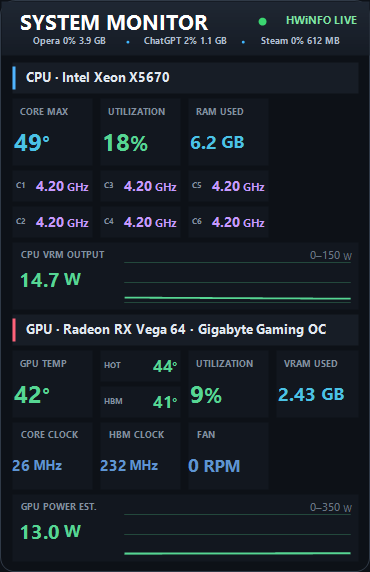
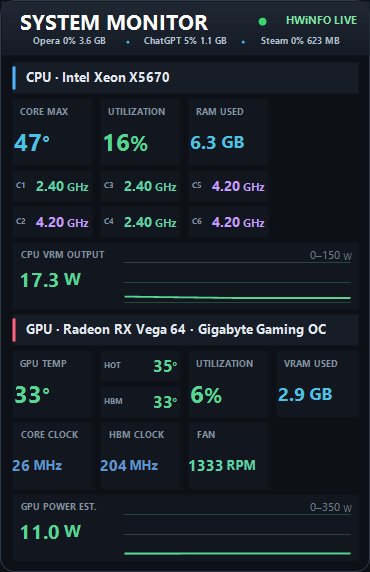
Release SystemMonitorWidget v2.2

diff --git a/src/DashboardEditor.cs b/src/DashboardEditor.cs
@@ -8,26 +8,56 @@ namespace VegaDesktopWidget
 {
     internal sealed class SensorChoice
     {
-        public string Key, Label, SensorName, Unit, Display;
+        public string Key, Label, SensorName, Unit, Display, SearchText;
         public SensorReading Reading;
         public override string ToString() { return Display; }
+
+        public bool Matches(string query)
+        {
+            if (String.IsNullOrWhiteSpace(query)) return true;
+            string[] terms = query.ToLowerInvariant().Split(new char[] { ' ', '\t', '\r', '\n' }, StringSplitOptions.RemoveEmptyEntries);
+            string searchable = SearchText ?? "";
+            foreach (string term in terms) if (searchable.IndexOf(term, StringComparison.Ordinal) < 0) return false;
+            return true;
+        }
+
+        private static string TypeAliases(SensorReading reading)
+        {
+            string unit = (reading.Unit ?? "").Trim().ToLowerInvariant();
+            switch (reading.Type)
+            {
+                case 1: return "temperature temp thermal celsius degrees";
+                case 2: return "voltage volt volts";
+                case 3: return "fan rpm speed tachometer rotation";
+                case 4: return "current amp amps ampere";
+                case 5: return "power watt watts consumption";
+                case 6: return "clock frequency mhz ghz";
+                case 7: return "usage utilization load percent";
+            }
+            if (unit == "rpm") return "fan rpm speed tachometer rotation";
+            if (unit == "w") return "power watt watts consumption";
+            if (unit == "mhz" || unit == "ghz") return "clock frequency mhz ghz";
+            if (unit == "%") return "usage utilization load percent";
+            return "other sensor reading";
+        }
 
         public static List<SensorChoice> Build(List<SensorReading> readings)
         {
             List<SensorChoice> result = new List<SensorChoice>();
-            result.Add(new SensorChoice { Key = "__RAM_USED__", Label = "RAM used", SensorName = "System memory", Unit = "GB", Display = "RAM used  —  System memory  [GB]" });
+            result.Add(new SensorChoice { Key = "__RAM_USED__", Label = "RAM used", SensorName = "System memory", Unit = "GB", Display = "RAM used  —  System memory  [GB]", SearchText = "ram used system memory gb utilization usage" });
             foreach (SensorReading reading in readings)
             {
+                string display = reading.Label + "  —  " + reading.SensorName + (String.IsNullOrWhiteSpace(reading.Unit) ? "" : "  [" + reading.Unit.Trim() + "]");
+                string search = String.Join(" ", new string[] { reading.Label, reading.OriginalLabel, reading.SensorName, reading.Unit, TypeAliases(reading) }).ToLowerInvariant();
                 result.Add(new SensorChoice {
                     Key = reading.Key, Label = reading.OriginalLabel, SensorName = reading.SensorName, Unit = reading.Unit, Reading = reading,
-                    Display = reading.Label + "  —  " + reading.SensorName + (String.IsNullOrWhiteSpace(reading.Unit) ? "" : "  [" + reading.Unit.Trim() + "]")
+                    Display = display, SearchText = search
                 });
             }
             result.Sort(delegate(SensorChoice a, SensorChoice b) { if (a.Key == "__RAM_USED__") return -1; if (b.Key == "__RAM_USED__") return 1; return String.Compare(a.Display, b.Display, StringComparison.CurrentCultureIgnoreCase); });
             return result;
         }
     }
-
     internal sealed class DashboardCanvas : Control
     {
         private const int MarginSize = 8, ColumnGap = 7, RowGap = 5, SlotHeight = 31;
@@ -169,24 +199,40 @@ namespace VegaDesktopWidget
 
     internal sealed class AddComponentDialog : Form
     {
-        private readonly ComboBox sensor = new ComboBox(), type = new ComboBox();
+        private readonly TextBox search = new TextBox();
+        private readonly ListBox sensor = new ListBox();
+        private readonly ComboBox type = new ComboBox();
+        private readonly Label resultCount = new Label();
+        private readonly Button add = new Button();
         private readonly List<SensorChoice> choices;
         public SensorChoice SelectedSensor { get { return sensor.SelectedItem as SensorChoice; } }
         public DashboardBoxType SelectedType { get { return (DashboardBoxType)Math.Max(0, type.SelectedIndex); } }
 
         public AddComponentDialog(List<SensorChoice> available)
         {
-            choices = available; Text = "Add dashboard component"; StartPosition = FormStartPosition.CenterParent; ClientSize = new Size(680, 190); FormBorderStyle = FormBorderStyle.FixedDialog; MaximizeBox = false; MinimizeBox = false; Font = new Font("Segoe UI", 9f);
-            TableLayoutPanel table = new TableLayoutPanel(); table.Dock = DockStyle.Fill; table.Padding = new Padding(18); table.ColumnCount = 2; table.RowCount = 3; table.ColumnStyles.Add(new ColumnStyle(SizeType.Absolute, 130)); table.ColumnStyles.Add(new ColumnStyle(SizeType.Percent, 100));
-            table.Controls.Add(LabelFor("Sensor"), 0, 0); sensor.Dock = DockStyle.Fill; sensor.DropDownStyle = ComboBoxStyle.DropDown; sensor.AutoCompleteMode = AutoCompleteMode.SuggestAppend; sensor.AutoCompleteSource = AutoCompleteSource.ListItems; sensor.DropDownWidth = 900; foreach (SensorChoice choice in choices) sensor.Items.Add(choice); if (sensor.Items.Count > 0) sensor.SelectedIndex = 0; table.Controls.Add(sensor, 1, 0);
-            table.Controls.Add(LabelFor("Box type"), 0, 1); type.Dock = DockStyle.Left; type.Width = 240; type.DropDownStyle = ComboBoxStyle.DropDownList; type.Items.AddRange(new object[] { "Big metric", "Horizontal spec (half-cell)", "Vertical spec", "Graph", "Section heading" }); type.SelectedIndex = 0; table.Controls.Add(type, 1, 1);
-            FlowLayoutPanel buttons = new FlowLayoutPanel(); buttons.FlowDirection = FlowDirection.RightToLeft; buttons.Dock = DockStyle.Fill; Button cancel = new Button(); cancel.Text = "Cancel"; cancel.DialogResult = DialogResult.Cancel; Button add = new Button(); add.Text = "Add"; add.DialogResult = DialogResult.OK; buttons.Controls.Add(cancel); buttons.Controls.Add(add); table.Controls.Add(buttons, 0, 2); table.SetColumnSpan(buttons, 2); Controls.Add(table); AcceptButton = add; CancelButton = cancel;
-            type.SelectedIndexChanged += delegate { sensor.Enabled = SelectedType != DashboardBoxType.Section; };
+            choices = available ?? new List<SensorChoice>(); Text = "Add dashboard component"; StartPosition = FormStartPosition.CenterParent; ClientSize = new Size(820, 510); MinimumSize = new Size(720, 430); Font = new Font("Segoe UI", 9f);
+            TableLayoutPanel table = new TableLayoutPanel(); table.Dock = DockStyle.Fill; table.Padding = new Padding(18); table.ColumnCount = 2; table.RowCount = 5; table.ColumnStyles.Add(new ColumnStyle(SizeType.Absolute, 110)); table.ColumnStyles.Add(new ColumnStyle(SizeType.Percent, 100));
+            table.RowStyles.Add(new RowStyle(SizeType.Absolute, 36)); table.RowStyles.Add(new RowStyle(SizeType.Percent, 100)); table.RowStyles.Add(new RowStyle(SizeType.Absolute, 25)); table.RowStyles.Add(new RowStyle(SizeType.Absolute, 42)); table.RowStyles.Add(new RowStyle(SizeType.Absolute, 45));
+            table.Controls.Add(LabelFor("Find sensor"), 0, 0); search.Dock = DockStyle.Fill; search.Margin = new Padding(3, 4, 3, 6); table.Controls.Add(search, 1, 0);
+            table.Controls.Add(LabelFor("Sensors"), 0, 1); sensor.Dock = DockStyle.Fill; sensor.IntegralHeight = false; sensor.HorizontalScrollbar = true; table.Controls.Add(sensor, 1, 1);
+            resultCount.Dock = DockStyle.Fill; resultCount.ForeColor = Color.DimGray; resultCount.TextAlign = ContentAlignment.MiddleLeft; table.Controls.Add(resultCount, 1, 2);
+            table.Controls.Add(LabelFor("Box type"), 0, 3); type.Dock = DockStyle.Left; type.Width = 260; type.DropDownStyle = ComboBoxStyle.DropDownList; type.Items.AddRange(new object[] { "Big metric", "Horizontal spec (half-cell)", "Vertical spec", "Graph", "Section heading" }); type.SelectedIndex = 0; table.Controls.Add(type, 1, 3);
+            FlowLayoutPanel buttons = new FlowLayoutPanel(); buttons.FlowDirection = FlowDirection.RightToLeft; buttons.Dock = DockStyle.Fill; Button cancel = new Button(); cancel.Text = "Cancel"; cancel.DialogResult = DialogResult.Cancel; cancel.Size = new Size(90, 30); add.Text = "Add"; add.DialogResult = DialogResult.OK; add.Size = new Size(90, 30); buttons.Controls.Add(cancel); buttons.Controls.Add(add); table.Controls.Add(buttons, 0, 4); table.SetColumnSpan(buttons, 2); Controls.Add(table); AcceptButton = add; CancelButton = cancel;
+            search.TextChanged += delegate { ApplyFilter(); }; sensor.SelectedIndexChanged += delegate { UpdateAddState(); }; sensor.DoubleClick += delegate { if (add.Enabled) { DialogResult = DialogResult.OK; Close(); } }; type.SelectedIndexChanged += delegate { bool needsSensor = SelectedType != DashboardBoxType.Section; search.Enabled = sensor.Enabled = needsSensor; UpdateAddState(); };
+            ApplyFilter(); search.Select();
         }
 
+        private void ApplyFilter()
+        {
+            SensorChoice selected = sensor.SelectedItem as SensorChoice; sensor.BeginUpdate(); sensor.Items.Clear();
+            foreach (SensorChoice choice in choices) if (choice.Matches(search.Text)) sensor.Items.Add(choice);
+            sensor.EndUpdate(); if (selected != null) sensor.SelectedItem = selected; if (sensor.SelectedIndex < 0 && sensor.Items.Count > 0) sensor.SelectedIndex = 0;
+            resultCount.Text = sensor.Items.Count + " of " + choices.Count + " sensors"; UpdateAddState();
+        }
+
+        private void UpdateAddState() { add.Enabled = SelectedType == DashboardBoxType.Section || sensor.SelectedItem != null; }
         private static Label LabelFor(string text) { Label label = new Label(); label.Text = text; label.Dock = DockStyle.Fill; label.TextAlign = ContentAlignment.MiddleLeft; return label; }
     }
-
     internal sealed class DashboardEditorControl : UserControl
     {
         private readonly WidgetConfig config; private readonly List<SensorReading> readings; private readonly List<SensorChoice> choices;

diff --git a/src/WidgetFormV2.cs b/src/WidgetFormV2.cs
@@ -23,9 +23,9 @@ namespace VegaDesktopWidget
         private readonly WidgetComponents components = new WidgetComponents();
         private double ramUsed, ramTotal; private bool ramAvailable;
         private string status = "Starting";
-        private bool dragging; private Point dragStart; private ContextMenuStrip menu; private ToolStripMenuItem topmostItem, scaleItem, gridItem;
+        private bool dragging; private Point dragStart; private ContextMenuStrip menu; private ToolStripMenuItem topmostItem, scaleItem, gridItem, processItem;
 
-        private float UiScale { get { if (config.UiScaleMode == 67) return 2f / 3f; if (config.UiScaleMode == 50) return 0.5f; if (config.UiScaleMode == 33) return 1f / 3f; if (config.UiScaleMode == 25) return 0.25f; return 1f; } }
+        private float UiScale { get { if (config.UiScaleMode == 75) return 0.75f; if (config.UiScaleMode == 67) return 2f / 3f; if (config.UiScaleMode == 50) return 0.5f; if (config.UiScaleMode == 33) return 1f / 3f; if (config.UiScaleMode == 25) return 0.25f; return 1f; } }
         private int CanvasWidth { get { return config.Width; } }
         private int LogicalHeight { get { int rows = Math.Max(4, config.ActiveDashboardRows); return DashboardTop + rows * SlotHeight + Math.Max(0, rows - 1) * RowGap + BottomPadding; } }
 
@@ -47,7 +47,8 @@ namespace VegaDesktopWidget
             topmostItem = new ToolStripMenuItem("Always on top"); topmostItem.Checked = config.AlwaysOnTop;
             topmostItem.Click += delegate { config.AlwaysOnTop = !config.AlwaysOnTop; TopMost = config.AlwaysOnTop; topmostItem.Checked = config.AlwaysOnTop; config.Save(); };
             menu.Items.Add(topmostItem); gridItem = new ToolStripMenuItem("Grid layout"); AddGridMenuItem("3 columns", 3); AddGridMenuItem("4 columns", 4); UpdateGridMenu(); menu.Items.Add(gridItem);
-            scaleItem = new ToolStripMenuItem("UI scale"); AddScaleMenuItem("100% (1/1)", 100); AddScaleMenuItem("67% (2/3)", 67); AddScaleMenuItem("50% (1/2)", 50); AddScaleMenuItem("33% (1/3)", 33); AddScaleMenuItem("25% (1/4)", 25); UpdateScaleMenu(); menu.Items.Add(scaleItem);
+            scaleItem = new ToolStripMenuItem("UI scale"); AddScaleMenuItem("100% (1/1)", 100); AddScaleMenuItem("75% (3/4)", 75); AddScaleMenuItem("67% (2/3)", 67); AddScaleMenuItem("50% (1/2)", 50); AddScaleMenuItem("33% (1/3)", 33); AddScaleMenuItem("25% (1/4)", 25); UpdateScaleMenu(); menu.Items.Add(scaleItem);
+            processItem = new ToolStripMenuItem("Header processes"); AddProcessMenuItem("No", 0); AddProcessMenuItem("Top CPU", 1); AddProcessMenuItem("Top RAM", 2); UpdateProcessMenu(); menu.Items.Add(processItem);
             menu.Items.Add("Start HWiNFO", null, delegate { LaunchHWiNFO(); }); menu.Items.Add("Reset position", null, delegate { Location = new Point(60, 60); });
             menu.Items.Add(new ToolStripSeparator()); menu.Items.Add("Exit", null, delegate { Close(); }); ContextMenuStrip = menu;
         }
@@ -56,13 +57,17 @@ namespace VegaDesktopWidget
         private void SetGridColumns(int columns) { config.GridColumns = columns == 3 ? 3 : 4; ApplyWidgetSize(); Location = ClampLocation(Location); UpdateGridMenu(); config.Save(); RefreshSensors(); }
         private void UpdateGridMenu() { if (gridItem == null) return; foreach (ToolStripItem raw in gridItem.DropDownItems) { ToolStripMenuItem item = raw as ToolStripMenuItem; if (item != null) item.Checked = (int)item.Tag == config.GridColumns; } }
         private void AddScaleMenuItem(string text, int mode) { ToolStripMenuItem item = new ToolStripMenuItem(text); item.Tag = mode; item.Click += delegate { SetUiScale(mode); }; scaleItem.DropDownItems.Add(item); }
-        private void SetUiScale(int mode) { config.UiScaleMode = mode == 67 || mode == 50 || mode == 33 || mode == 25 ? mode : 100; ApplyWidgetSize(); Location = ClampLocation(Location); UpdateScaleMenu(); config.Save(); Invalidate(); }
+        private void SetUiScale(int mode) { config.UiScaleMode = mode == 75 || mode == 67 || mode == 50 || mode == 33 || mode == 25 ? mode : 100; ApplyWidgetSize(); Location = ClampLocation(Location); UpdateScaleMenu(); config.Save(); Invalidate(); }
         private void UpdateScaleMenu() { if (scaleItem == null) return; foreach (ToolStripItem raw in scaleItem.DropDownItems) { ToolStripMenuItem item = raw as ToolStripMenuItem; if (item != null) item.Checked = (int)item.Tag == config.UiScaleMode; } }
+        private void AddProcessMenuItem(string text, int mode) { ToolStripMenuItem item = new ToolStripMenuItem(text); item.Tag = mode; item.Click += delegate { SetProcessMode(mode); }; processItem.DropDownItems.Add(item); }
+        private void SetProcessMode(int mode) { config.ProcessStripMode = Math.Max(0, Math.Min(2, mode)); topProcesses.Clear(); UpdateProcessMenu(); config.Save(); RefreshSensors(); }
+        private void UpdateProcessMenu() { if (processItem == null) return; foreach (ToolStripItem raw in processItem.DropDownItems) { ToolStripMenuItem item = raw as ToolStripMenuItem; if (item != null) item.Checked = (int)item.Tag == config.ProcessStripMode; } }
         private void ApplyWidgetSize() { float scale = UiScale; Size scaled = new Size(Math.Max(1, (int)Math.Round(config.Width * scale)), Math.Max(1, (int)Math.Round(LogicalHeight * scale))); MinimumSize = Size.Empty; MaximumSize = Size.Empty; Size = scaled; MinimumSize = scaled; MaximumSize = scaled; }
 
         private void RefreshSensors()
         {
-            readings = reader.Read(out status); ramAvailable = PhysicalMemory.Read(out ramUsed, out ramTotal); topProcesses = processSampler.SampleTopByMemory(3);
+            readings = reader.Read(out status); ramAvailable = PhysicalMemory.Read(out ramUsed, out ramTotal);
+            if (config.ProcessStripMode == 0) topProcesses.Clear(); else topProcesses = processSampler.SampleTop(3, config.ProcessStripMode == 1);
             foreach (DashboardItem item in config.ActiveDashboard)
             {
                 if (item.BoxType == DashboardBoxType.Section) continue;
@@ -91,7 +96,7 @@ namespace VegaDesktopWidget
         private double? ItemValue(DashboardItem item)
         {
             if (item.SensorKey == "__RAM_USED__") return ramAvailable ? (double?)ramUsed : null;
-            SensorReading reading = Resolve(item); return reading == null ? (double?)null : reading.Value;
+            SensorReading reading = Resolve(item); return reading == null || Double.IsNaN(reading.Value) || Double.IsInfinity(reading.Value) ? (double?)null : reading.Value;
         }
 
         protected override void OnPaint(PaintEventArgs e)
@@ -114,6 +119,7 @@ namespace VegaDesktopWidget
 
         private void DrawProcessStrip(Graphics g, RectangleF area)
         {
+            if (config.ProcessStripMode == 0) return;
             if (topProcesses.Count == 0)
             {
                 DrawText(g, "Collecting process activity", 7f, FontStyle.Regular, Color.FromArgb(135, 148, 164), area, StringAlignment.Near);
@@ -205,14 +211,14 @@ namespace VegaDesktopWidget
             return minimum.ToString("0.##", CultureInfo.InvariantCulture) + "–" + maximum.ToString("0.##", CultureInfo.InvariantCulture) + suffix;
         }
 
-        private static string Format(SensorReading reading) { return reading == null ? "—" : FormatValue(reading.Value, reading.Unit); }
+        private static string Format(SensorReading reading) { return reading == null || Double.IsNaN(reading.Value) || Double.IsInfinity(reading.Value) ? "—" : FormatValue(reading.Value, reading.Unit); }
         private static string FormatValue(double value, string unit)
         {
             string u = unit == null ? "" : unit.Trim();
             if (u.Equals("°C", StringComparison.OrdinalIgnoreCase)) return Math.Round(value).ToString("0") + "°";
             if (u == "%") return Math.Round(value).ToString("0") + "%";
             if (u.Equals("MHz", StringComparison.OrdinalIgnoreCase)) return value >= 1000 ? (value / 1000.0).ToString("0.00", CultureInfo.InvariantCulture) + " GHz" : Math.Round(value).ToString("0") + " MHz";
-            if (u.Equals("MB", StringComparison.OrdinalIgnoreCase) && value >= 1024) return (value / 1024.0).ToString("0.00", CultureInfo.InvariantCulture) + " GB";
+            if (u.Equals("MB", StringComparison.OrdinalIgnoreCase) && value >= 1024) return (value / 1024.0).ToString("0.0", CultureInfo.InvariantCulture) + " GB";
             if (u == "W") return value.ToString(value < 100 ? "0.0" : "0", CultureInfo.InvariantCulture) + " W";
             if (u == "RPM") return Math.Round(value).ToString("0") + " RPM";
             return value.ToString(Math.Abs(value) < 10 ? "0.00" : "0", CultureInfo.InvariantCulture) + (u.Length > 0 ? " " + u : "");

diff --git a/src/WidgetConfigV2.cs b/src/WidgetConfigV2.cs
@@ -9,6 +9,7 @@ namespace VegaDesktopWidget
     internal sealed class WidgetConfig
     {
         public int Left = 60, Top = 60, Width = 370, UiScaleMode = 100, GridColumns = 4, RefreshMilliseconds = 1000, OpacityPercent = 96;
+        public int ProcessStripMode = 2;
         public int CpuGraphMin = 0, CpuGraphMax = 150, GpuGraphMin = 0, GpuGraphMax = 350;
         public bool AlwaysOnTop = false, ShowGraphs = true, LaunchHWiNFO = false;
         public Dictionary<string, string> RoleKeys = new Dictionary<string, string>(StringComparer.OrdinalIgnoreCase);
@@ -35,9 +36,10 @@ namespace VegaDesktopWidget
                 else if (k.Equals("Width", StringComparison.OrdinalIgnoreCase) && Int32.TryParse(v, out n)) c.Width = Math.Max(340, Math.Min(600, n));
                 else if (k.Equals("GridColumns", StringComparison.OrdinalIgnoreCase) && Int32.TryParse(v, out n) && (n == 3 || n == 4)) c.GridColumns = n;
                 else if (k.Equals("UiScaleDivisor", StringComparison.OrdinalIgnoreCase) && Int32.TryParse(v, out n)) c.UiScaleMode = n == 1 ? 100 : n == 2 ? 50 : n == 3 ? 33 : 25;
-                else if (k.Equals("UiScaleMode", StringComparison.OrdinalIgnoreCase) && Int32.TryParse(v, out n) && (n == 100 || n == 67 || n == 50 || n == 33 || n == 25)) c.UiScaleMode = n;
+                else if (k.Equals("UiScaleMode", StringComparison.OrdinalIgnoreCase) && Int32.TryParse(v, out n) && (n == 100 || n == 75 || n == 67 || n == 50 || n == 33 || n == 25)) c.UiScaleMode = n;
                 else if (k.Equals("RefreshMilliseconds", StringComparison.OrdinalIgnoreCase) && Int32.TryParse(v, out n)) c.RefreshMilliseconds = Math.Max(500, Math.Min(5000, n));
                 else if (k.Equals("OpacityPercent", StringComparison.OrdinalIgnoreCase) && Int32.TryParse(v, out n)) c.OpacityPercent = Math.Max(65, Math.Min(100, n));
+                else if (k.Equals("ProcessStripMode", StringComparison.OrdinalIgnoreCase) && Int32.TryParse(v, out n) && n >= 0 && n <= 2) c.ProcessStripMode = n;
                 else if (k.Equals("CpuGraphMin", StringComparison.OrdinalIgnoreCase) && Int32.TryParse(v, out n)) c.CpuGraphMin = Math.Max(0, n);
                 else if (k.Equals("CpuGraphMax", StringComparison.OrdinalIgnoreCase) && Int32.TryParse(v, out n)) c.CpuGraphMax = Math.Max(1, n);
                 else if (k.Equals("GpuGraphMin", StringComparison.OrdinalIgnoreCase) && Int32.TryParse(v, out n)) c.GpuGraphMin = Math.Max(0, n);
@@ -64,6 +66,7 @@ namespace VegaDesktopWidget
             Directory.CreateDirectory(Folder); List<string> l = new List<string>(); l.Add("# System Monitor Widget modular settings v2.0");
             l.Add("Left=" + Left.ToString(CultureInfo.InvariantCulture)); l.Add("Top=" + Top.ToString(CultureInfo.InvariantCulture)); l.Add("Width=" + Width.ToString(CultureInfo.InvariantCulture)); l.Add("UiScaleMode=" + UiScaleMode.ToString(CultureInfo.InvariantCulture)); l.Add("GridColumns=" + GridColumns.ToString(CultureInfo.InvariantCulture));
             l.Add("RefreshMilliseconds=" + RefreshMilliseconds.ToString(CultureInfo.InvariantCulture)); l.Add("OpacityPercent=" + OpacityPercent.ToString(CultureInfo.InvariantCulture));
+            l.Add("ProcessStripMode=" + ProcessStripMode.ToString(CultureInfo.InvariantCulture));
             l.Add("CpuGraphMin=" + CpuGraphMin); l.Add("CpuGraphMax=" + CpuGraphMax); l.Add("GpuGraphMin=" + GpuGraphMin); l.Add("GpuGraphMax=" + GpuGraphMax);
             l.Add("AlwaysOnTop=" + AlwaysOnTop); l.Add("ShowGraphs=" + ShowGraphs); l.Add("LaunchHWiNFO=" + LaunchHWiNFO);
             l.Add("DashboardRows3=" + DashboardRows3); l.Add("DashboardRows4=" + DashboardRows4);

diff --git a/src/SettingsFormV2.cs b/src/SettingsFormV2.cs
@@ -8,7 +8,7 @@ namespace VegaDesktopWidget
     internal sealed class SettingsForm : Form
     {
         private readonly WidgetConfig working; private readonly List<SensorReading> readings;
-        private static readonly int[] ScaleModes = new int[] { 100, 67, 50, 33, 25 };
+        private static readonly int[] ScaleModes = new int[] { 100, 75, 67, 50, 33, 25 };
         private CheckBox topmost, graphs, startup, launchHwinfo;
         private NumericUpDown width, opacity, refresh;
         private ComboBox uiScale, gridLayout;
@@ -102,7 +102,7 @@ namespace VegaDesktopWidget
         private static ComboBox AddScaleChoice(TableLayoutPanel table, int mode)
         {
             Label name = NameLabel("UI scale"); FlowLayoutPanel panel = new FlowLayoutPanel(); panel.AutoSize = true; panel.WrapContents = false;
-            ComboBox control = new ComboBox(); control.DropDownStyle = ComboBoxStyle.DropDownList; control.Width = 145; control.Items.AddRange(new object[] { "100% (1/1)", "67% (2/3)", "50% (1/2)", "33% (1/3)", "25% (1/4)" });
+            ComboBox control = new ComboBox(); control.DropDownStyle = ComboBoxStyle.DropDownList; control.Width = 145; control.Items.AddRange(new object[] { "100% (1/1)", "75% (3/4)", "67% (2/3)", "50% (1/2)", "33% (1/3)", "25% (1/4)" });
             control.SelectedIndex = 0; for (int i = 0; i < ScaleModes.Length; i++) if (ScaleModes[i] == mode) { control.SelectedIndex = i; break; }
             Label hint = new Label(); hint.Text = "scales the complete widget"; hint.AutoSize = true; hint.ForeColor = Color.Gray; hint.Margin = new Padding(8, 5, 0, 0);
             panel.Controls.Add(control); panel.Controls.Add(hint); table.Controls.Add(name); table.Controls.Add(panel); return control;
@@ -113,7 +113,7 @@ namespace VegaDesktopWidget
         private static WidgetConfig Clone(WidgetConfig source)
         {
             WidgetConfig copy = new WidgetConfig(); copy.Left = source.Left; copy.Top = source.Top; copy.Width = source.Width; copy.UiScaleMode = source.UiScaleMode; copy.GridColumns = source.GridColumns;
-            copy.RefreshMilliseconds = source.RefreshMilliseconds; copy.OpacityPercent = source.OpacityPercent; copy.AlwaysOnTop = source.AlwaysOnTop; copy.ShowGraphs = source.ShowGraphs; copy.LaunchHWiNFO = source.LaunchHWiNFO;
+            copy.RefreshMilliseconds = source.RefreshMilliseconds; copy.OpacityPercent = source.OpacityPercent; copy.ProcessStripMode = source.ProcessStripMode; copy.AlwaysOnTop = source.AlwaysOnTop; copy.ShowGraphs = source.ShowGraphs; copy.LaunchHWiNFO = source.LaunchHWiNFO;
             copy.CpuGraphMin = source.CpuGraphMin; copy.CpuGraphMax = source.CpuGraphMax; copy.GpuGraphMin = source.GpuGraphMin; copy.GpuGraphMax = source.GpuGraphMax;
             copy.DashboardRows3 = source.DashboardRows3; copy.DashboardRows4 = source.DashboardRows4; copy.Dashboard3.Clear(); copy.Dashboard4.Clear();
             foreach (DashboardItem item in source.Dashboard3) copy.Dashboard3.Add(item.Clone()); foreach (DashboardItem item in source.Dashboard4) copy.Dashboard4.Add(item.Clone());

diff --git a/src/ProcessUsageSampler.cs b/src/ProcessUsageSampler.cs
@@ -33,12 +33,13 @@ namespace VegaDesktopWidget
         private List<ProcessUsage> cached = new List<ProcessUsage>();
         private long previousTimestamp;
         private long lastSampleTimestamp;
+        private bool cachedSortByCpu;
         private readonly int ownProcessId = Process.GetCurrentProcess().Id;
 
-        public List<ProcessUsage> SampleTopByMemory(int count)
+        public List<ProcessUsage> SampleTop(int count, bool sortByCpu)
         {
             long now = Stopwatch.GetTimestamp();
-            if (lastSampleTimestamp != 0 && SecondsBetween(lastSampleTimestamp, now) < 0.75) return new List<ProcessUsage>(cached);
+            if (lastSampleTimestamp != 0 && cachedSortByCpu == sortByCpu && SecondsBetween(lastSampleTimestamp, now) < 0.75) return new List<ProcessUsage>(cached);
 
             double elapsedMilliseconds = previousTimestamp == 0 ? 0.0 : SecondsBetween(previousTimestamp, now) * 1000.0;
             Dictionary<int, ProcessPoint> next = new Dictionary<int, ProcessPoint>();
@@ -82,6 +83,11 @@ namespace VegaDesktopWidget
 
             List<Aggregate> ordered = new List<Aggregate>(groups.Values);
             ordered.Sort(delegate(Aggregate a, Aggregate b) {
+                if (sortByCpu)
+                {
+                    int byCpu = b.CpuPercent.CompareTo(a.CpuPercent);
+                    if (byCpu != 0) return byCpu;
+                }
                 int byMemory = b.WorkingSetBytes.CompareTo(a.WorkingSetBytes);
                 return byMemory != 0 ? byMemory : StringComparer.OrdinalIgnoreCase.Compare(a.Name, b.Name);
             });
@@ -97,6 +103,7 @@ namespace VegaDesktopWidget
                 });
             }
             cached = result;
+            cachedSortByCpu = sortByCpu;
             return new List<ProcessUsage>(cached);
         }
 

diff --git a/src/HWiNFOReader.cs b/src/HWiNFOReader.cs
@@ -80,7 +80,7 @@ namespace VegaDesktopWidget
                     reading.Label = String.IsNullOrWhiteSpace(userLabel) ? reading.OriginalLabel : userLabel;
                     reading.Unit = ReadAnsi(view, p + 268, 16); reading.Value = ReadDouble(view, p + 284);
                     reading.Minimum = ReadDouble(view, p + 292); reading.Maximum = ReadDouble(view, p + 300); reading.Average = ReadDouble(view, p + 308);
-                    if (!Double.IsNaN(reading.Value) && !Double.IsInfinity(reading.Value)) result.Add(reading);
+                    result.Add(reading);
                 }
                 status = "Live · " + result.Count + " readings"; return result;
             }

diff --git a/src/Properties/AssemblyInfo.cs b/src/Properties/AssemblyInfo.cs
@@ -4,5 +4,5 @@ using System.Reflection;
 [assembly: AssemblyDescription("Modular HWiNFO desktop hardware monitor")]
 [assembly: AssemblyCompany("")]
 [assembly: AssemblyProduct("System Monitor Widget")]
-[assembly: AssemblyVersion("2.1.0.0")]
-[assembly: AssemblyFileVersion("2.1.0.0")]
+[assembly: AssemblyVersion("2.2.0.0")]
+[assembly: AssemblyFileVersion("2.2.0.0")]

diff --git a/README.md b/README.md
@@ -10,11 +10,13 @@ A lightweight, modular Windows desktop hardware monitor powered by HWiNFO shared
 
 ![Dashboard editor](docs/images/dashboard-editor.png)
 
+![Search all HWiNFO sensors](docs/images/sensor-search.png)
+
 ## Features
 
 - Fully configurable 3-column and 4-column dashboards.
-- Live top-three process strip, ranked by RAM and showing aggregated CPU and memory usage.
-- Add any sensor exposed through HWiNFO shared memory.
+- Optional top-three process strip: hide it, rank by CPU, or rank by RAM while showing aggregated CPU and memory usage.
+- Search and add every sensor exposed through HWiNFO shared memory by label, device, unit, or sensor type.
 - Five reusable component types: Big metric, Horizontal spec, Vertical spec, Graph, and Section.
 - Drag-and-drop placement with grid snapping and overlap prevention.
 - Precise column, half-row, width, and dashboard-height controls.
@@ -23,7 +25,7 @@ A lightweight, modular Windows desktop hardware monitor powered by HWiNFO shared
 - Fixed minimum and maximum for every graph.
 - Optional recorded minimum and maximum on Big metric components.
 - Duplicate, delete, and reset-layout actions.
-- Interface scaling at 100%, 67%, 50%, 33%, and 25%.
+- Interface scaling at 100%, 75%, 67%, 50%, 33%, and 25%.
 - Always-on-top, opacity, refresh interval, and Start with Windows controls.
 - Existing v1.x dashboard settings are migrated automatically.
 
@@ -52,7 +54,7 @@ Run PowerShell from the repository root:
 .\build.ps1
 ```
 
-The compiled executable is written to `artifacts\SystemMonitorWidget-v2.1.exe`.
+The compiled executable is written to `artifacts\SystemMonitorWidget-v2.2.exe`.
 
 ## Local data
 
@@ -60,8 +62,8 @@ Widget settings stay in the current Windows user's local application-data folder
 
 ## Quick start
 
-1. Download `SystemMonitorWidget-v2.1.exe` from the [latest release](../../releases/latest).
+1. Download `SystemMonitorWidget-v2.2.exe` from the [latest release](../../releases/latest).
 2. Open HWiNFO64 settings and enable **Shared Memory Support**.
 3. Start HWiNFO sensors.
-4. Run `SystemMonitorWidget-v2.1.exe`.
+4. Run `SystemMonitorWidget-v2.2.exe`.
 5. Right-click the widget and choose **Configure dashboard** to add sensors, select component types, arrange the grid, and customize colors.
